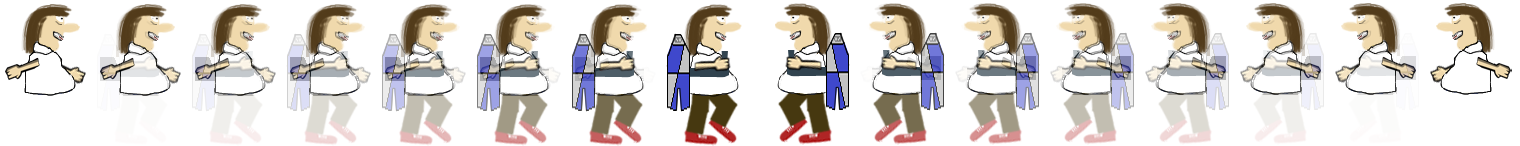
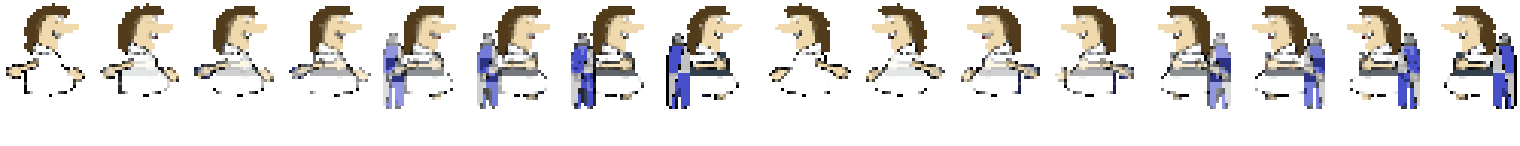
Morph-animationen verkar var ok nu

Changed region(s): [[0.0, 0.0274, 1.0, 1.0]]

diff --git a/DrunkiBoy/DrunkiBoy/Level/Player.cs b/DrunkiBoy/DrunkiBoy/Level/Player.cs
@@ -93,9 +93,12 @@ namespace DrunkiBoy
                     Shooting();
                     SetDeadFallingOffPlatform();
                     CheckIfPlayerIsOnPlatform();
-                    particleEngine.Update(particleEngingePos, true);
-                    if (!isMorphing)
+
+                    if (!isMorphing) 
+                    { 
                         texUpperBody = Textures.player_jetpack;
+                        particleEngine.Update(particleEngingePos, true);
+                    }
                 break;
             }
             
@@ -138,7 +141,7 @@ namespace DrunkiBoy
         private void PlayerFlying(GameTime gameTime)
         {
             facing = 1;
-            if (activePlatform != null && activePowerUpTimer >= 0) //Simulera jetpack motor
+            if (activePlatform != null && activePowerUpTimer >= 0 && !isMorphing) //Simulera jetpack motor
             {
                 movement.Y -= (float)rnd.NextDouble()*3;
             }
@@ -382,6 +385,7 @@ namespace DrunkiBoy
             {
                 frame = 0;
             }
+            ForceFrameChange();
             if (powerUp == 1) //Odödlighet...
             {
                 invincible = true;
